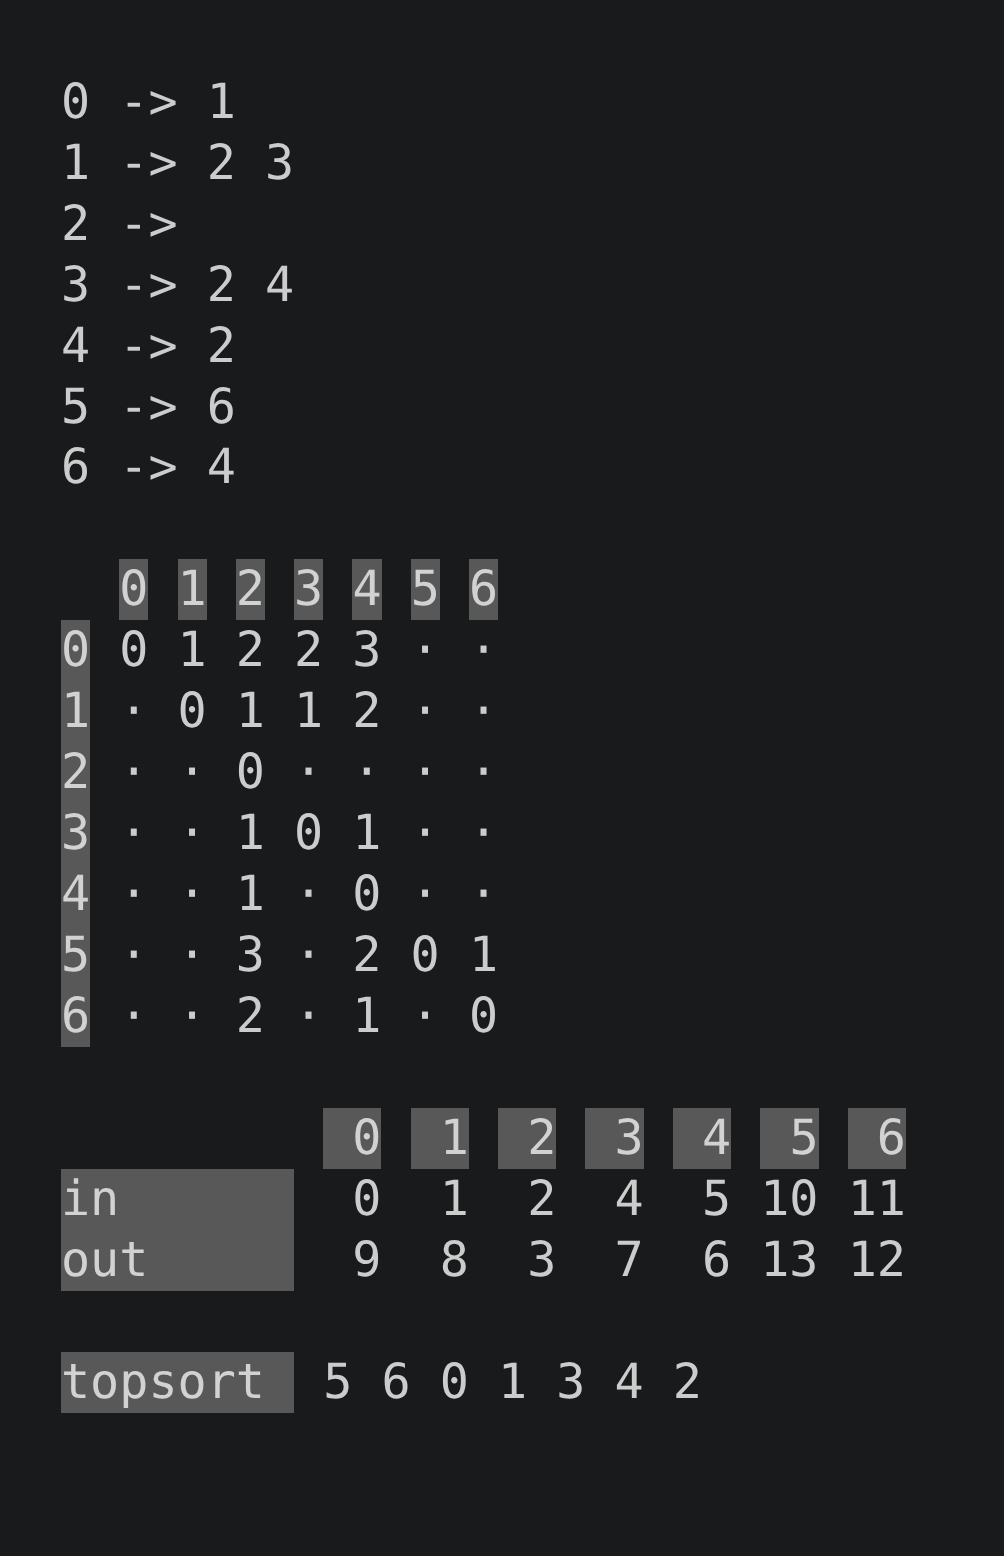
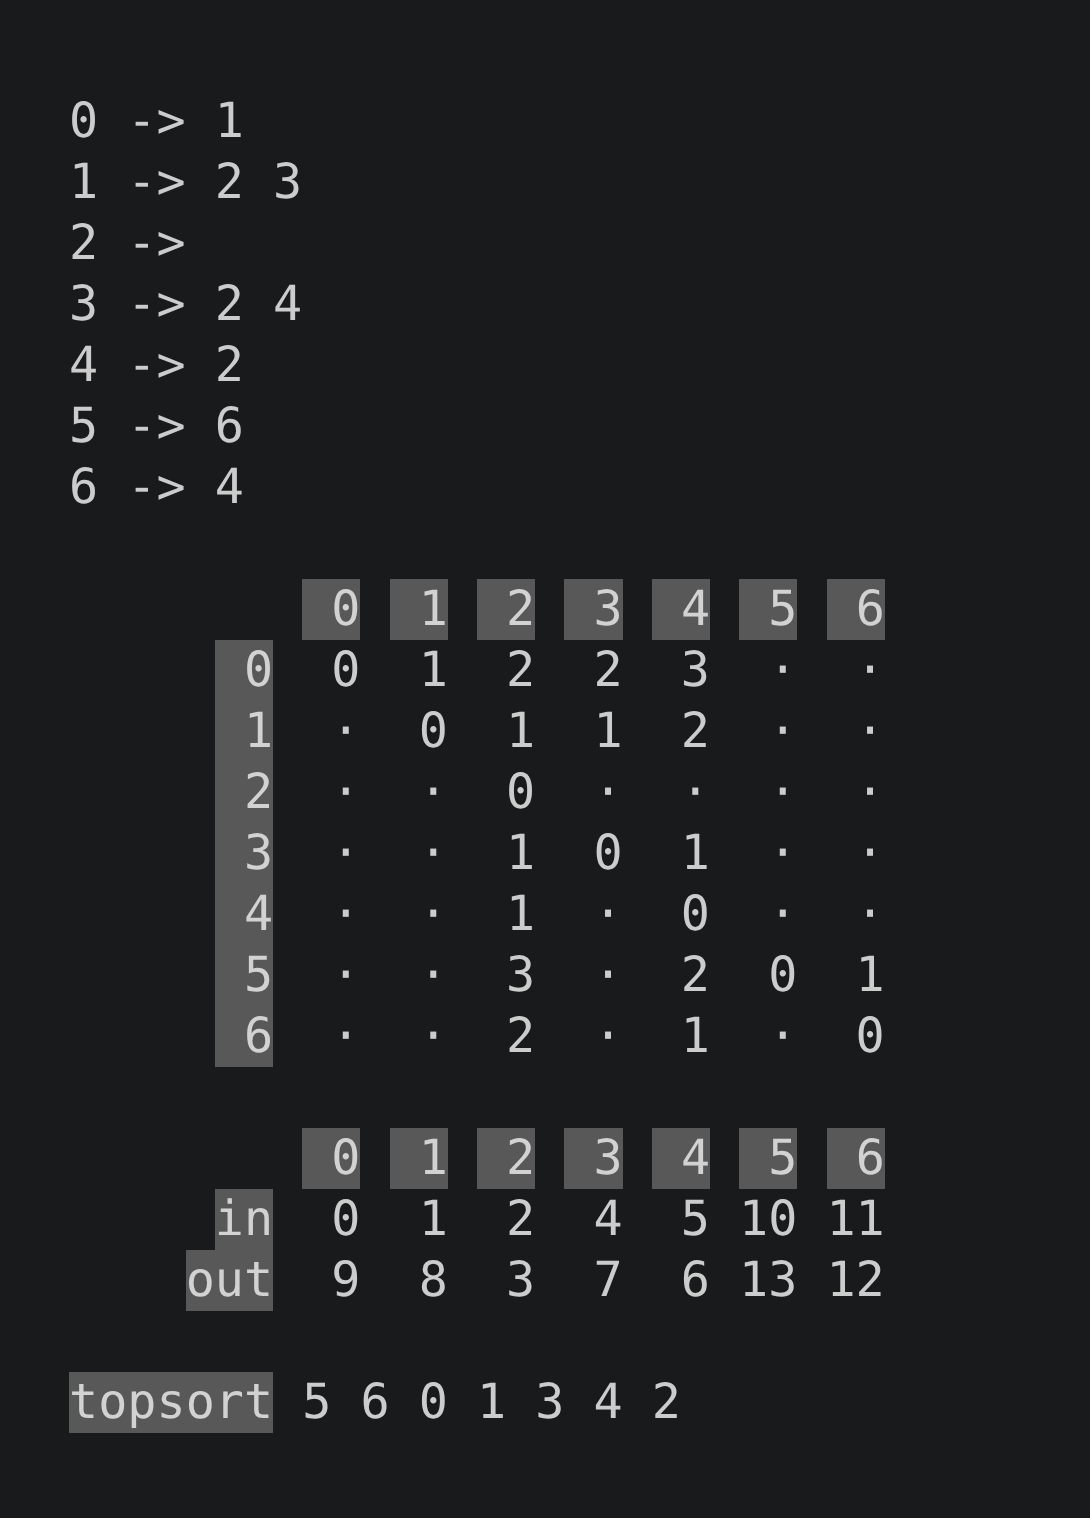
operator<<

diff --git a/graph/traversal/traversal.cpp b/graph/traversal/traversal.cpp
@@ -1,7 +1,7 @@
 
 #include "traversal.hpp"
 #include <iomanip>        // Functions for operator<<
-#include <string>
+#include <string>         // Functions for operator<<
 
 
 // Traversal for BFS
@@ -32,92 +32,91 @@ void T_topsort::reset(const int v_num) {
 
 // Functions for operator<<
 
-ostream& operator<<(ostream& os, stack<int> a) {
-    while (a.empty() == false) {
-        os << a.top() << ' ';
-        a.pop();
-    }
-    return os;
+string spaces(const int w) {
+    return string(w, ' ');
 }
 
-string grey(const string& s) {
-    return "\033[48;5;240m" + s + "\033[49m";
-}
-
-string grey(int digit) {
-    return grey(to_string(digit));
-}
-
-string cell(int x, int w) {
+template <typename T>
+string align(const T& val, const int w) {
     ostringstream ss;
-    ss << setw(w) << x;
-    return grey(ss.str());
+    if constexpr(is_integral_v<T>)
+        ss << setw(w) << to_string(val);
+    else if (string{val} == "·")
+        ss << string(w - 1, ' ') << val;
+    else
+        ss << setw(w) << val;
+    return ss.str();    
 }
 
-string cell(const string& s, int w) {
+template <typename T>
+string grey(const T& s) {
     ostringstream ss;
-    ss << left << setw(w) << s;
-    return grey(ss.str());
+    ss << "\033[48;5;240m" << s << "\033[49m";
+    return ss.str();
 }
 
-ostream& print_vec(ostream& os, const vector<int>& a, int w) {
-    for (int x : a)
-        os << setw(w) << x << ' ';
-    return os;
+template <typename T>
+string cell(const T& t, const int w) {
+    return grey(align(t, w));
 }
 
 
 // operator<<
 
-// Backlog:
-//  Такая же красота, как у T_topsort
-ostream& operator<<(ostream& os, const T_bfs& t) {
-    os << "  ";
-    for (int i = 0; i < t.dist.size(); ++i)
-        os << grey(i) << ' ';
-    for (int i = 0; i < t.dist.size(); ++i) {
-        os << '\n' << grey(i) << ' ';
-        for (int d : t.dist[i])
-            os << (d == t.dist0 ? "·" : to_string(d)) << ' ';
+constexpr int LW = 7;
+
+ostream& operator<<(ostream& os, stack<int> stck) {
+    while (!stck.empty()) {
+        os << stck.top() << ' ';
+        stck.pop();
     }
+    return os;
+}
+
+ostream& operator<<(ostream& os, const T_bfs& t) {
+    const int w  = max(2,  (int)to_string(t.dist.size()).size());
+    const int lw = max(LW, (int)to_string(t.dist.size()).size());
+
+    os << spaces(lw + 1);
+    for (int v = 0; v < t.dist.size(); ++v)
+        os << cell(v, w) << ' ';
+
+    for (int v = 0; v < t.dist.size(); ++v) {
+        os << '\n' << spaces(lw - w) << cell(v, w) << ' ';
+        for (int d : t.dist[v])
+            if (d == t.dist0) os << align("·", w) << ' ';
+            else              os << align(d, w) << ' ';
+    }
+
     return os << '\n';
 }
 
-
 ostream& operator<<(ostream& os, const T_topsort& t) {
-    const int n = t.in.size();
+    const int w  = max(2, (int)to_string(2 * t.in.size()).size());
 
-    // Ширина колонки = длина самого длинного числа
-    //  Индексы: 0 .. n-1
-    //   Значения in/out: -1 .. 2n
-    int w = 1;
-    auto upd = [&w](int x) { w = max(w, (int)to_string(x).size()); };
-    for (int i = 0; i < n; ++i) upd(i);
-    for (int x : t.in) upd(x);
-    for (int x : t.out) upd(x);
-    w = max(w, 2);
-
-    // Ширина колонки заголовков in, out, topsort
-    const int lw = 8;
-
-    os << string(lw, ' ') << ' ';
-    for (int i = 0; i < n; ++i)
+    os << string(LW + 1, ' ');
+    for (int i = 0; i < t.in.size(); ++i)
         os << cell(i, w) << ' ';
 
-    os << '\n' << cell("in",  lw) << ' ';
-    print_vec(os, t.in,  w);
+    os << '\n' << spaces(LW - 2) << grey("in") << ' ';
+    for (int v = 0; v < t.in.size(); ++v)
+        os << align(t.in[v], w) << ' ';
 
-    os << '\n' << cell("out", lw) << ' ';
-    print_vec(os, t.out, w);
+    os << '\n' << spaces(LW - 3) << grey("out") << ' ';
+    for (int v = 0; v < t.out.size(); ++v)
+        os << align(t.out[v], w) << ' ';
 
-    os << "\n\n" << cell("topsort", lw) << ' ';
+    os << "\n\n";
+
     if (t.cycle) {
-        os << "cycles detected: \n";
-        os << cell("", lw) << " ... \n";
+        os << spaces(LW - 6) << grey("cycles") << ' ';
+
         // TODO: Печатать циклы из вектора t.cycle
+        os << "... \n";
     }
-    else
-        os << t.topsort;
+    else {
+        os << spaces(LW - 7) << grey("topsort") << ' ' << t.topsort;
+    }
 
     return os << '\n';
 }

diff --git a/graph/main.cpp b/graph/main.cpp
@@ -14,12 +14,12 @@ int main()
     g.topsort(t_top);
     cout << t_top << "\n\n";
 
-    // gg.demo_cyclic();
-    // cout << gg << "\n";
-    // gg.bfs(t_bfs);
-    // cout << t_bfs << "\n";
-    // gg.topsort(t_top);
-    // cout << t_top << "\n\n";
+    gg.demo_cyclic();
+    cout << gg << "\n";
+    gg.bfs(t_bfs);
+    cout << t_bfs << "\n";
+    gg.topsort(t_top);
+    cout << t_top << "\n\n";
 
     return 0;
 }

diff --git a/graph/readme.md b/graph/readme.md
@@ -4,16 +4,16 @@
 ## Demo
 
 <div>
-    <img src="demo/demo.png" width="25%" style="margin-right: 2%;">
-    <img src="demo/demo_cyclic.png" width="25%">
+    <img src="demo/demo.png"        width="30%">
+    <img src="demo/demo_cyclic.png" width="30%">
 </div>
 
 
 ## Roadmap
 
+- [x] topsort: topsort
 - [x] topsort: in + out
-- [x] topsort: наличие циклов
-- [ ] topsort: классификация ребер
+- [ ] topsort: cycles
 - [x] bfs: dist
 - [ ] Взвешенный граф
 - [ ] Алгоритм Прима (мин. остовное дерево)
